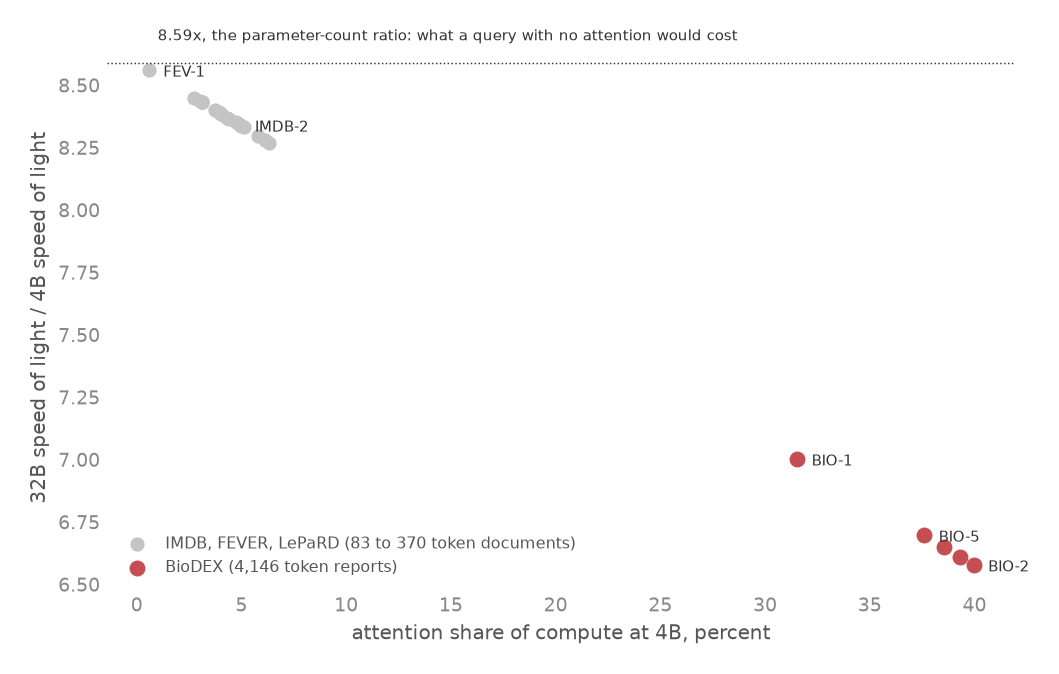
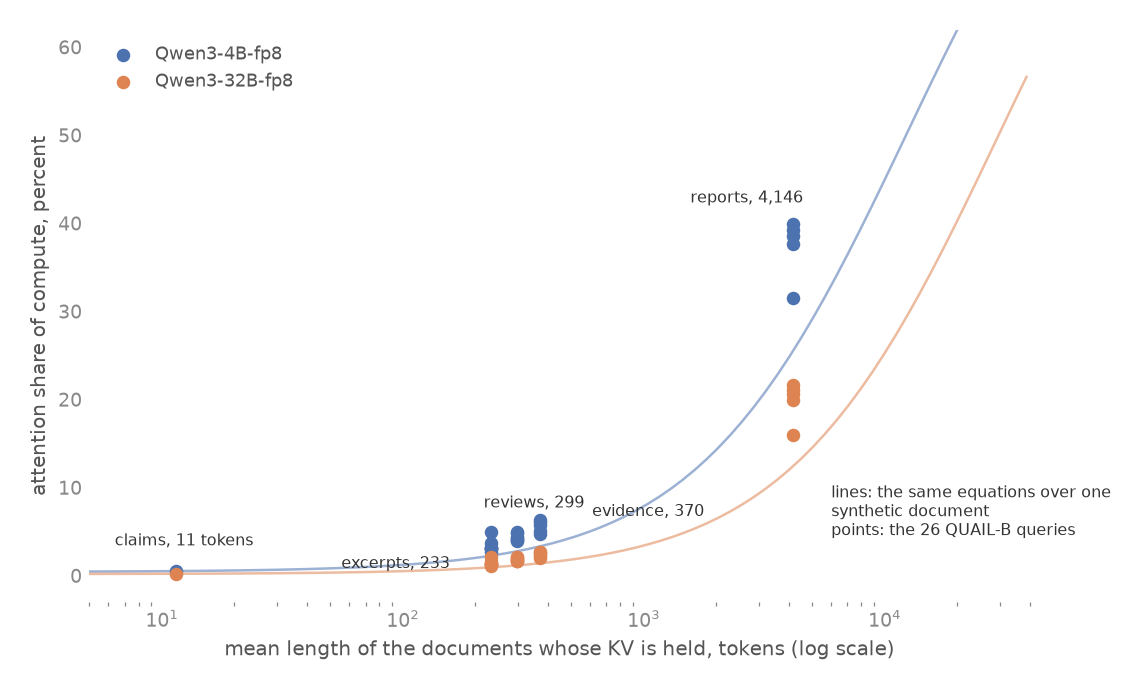
Replot the attention figure in primary units, over a derived curve
Both axes are now quantities the reader already has: mean length of
the documents whose KV is held, against attention's share of
compute. The old y axis was a ratio of two speed-of-light numbers,
and 8.59 appeared on the plot with no derivation behind it. Both are
gone; the 8.59x and 3.56x scaling factors are stated in the report
text where they can be explained.

The lines are the same equations applied to one synthetic document
of varying length, so the relation is drawn from the model rather
than fitted to five corpus means, and the 26 queries scatter around
it. Fixes a wrong annotation: passage_text is never the held side,
since LePaRD always anchors on excerpts.

Claude-Session: https://claude.ai/code/session_01QTPQAmNeew6H2VMfLurGdt

diff --git a/reports/make_sol_quailb_plots.py b/reports/make_sol_quailb_plots.py
@@ -14,14 +14,15 @@ from pathlib import Path
 import matplotlib.pyplot as plt
 
 sys.path.insert(0, str(Path(__file__).parent))
-from plot_colors import BLUE, DARK, GRAY, ORANGE, RED  # noqa
+from plot_colors import BLUE, DARK, ORANGE  # noqa
 
 ROOT = Path(__file__).resolve().parents[1]
 OUT = Path(__file__).parent / "plots"
 plt.style.use(Path(__file__).parent / "quail.mplstyle")
 
 W = Path(sys.argv[1])
-Q = json.loads((W / "sol_quailb_sf0.1.json").read_text())["queries"]
+D = json.loads((W / "sol_quailb_sf0.1.json").read_text())
+Q = D["queries"]
 ORDER = list(Q)
 
 
@@ -56,31 +57,45 @@ def plot_sol_per_query():
 
 
 def plot_attention_share():
-    """Why 32B is not a flat 8.59x: the attention term scales only
-    3.56x, so the queries it dominates scale by less."""
-    fig, ax = plt.subplots(figsize=(7, 4.4))
-    share = [100 * Q[q]["models"]["qwen3-4b-fp8"]["t_attention"]
-             / Q[q]["models"]["qwen3-4b-fp8"]["t_compute"] for q in ORDER]
-    ratio = [sol(q, "qwen3-32b-fp8") / sol(q, "qwen3-4b-fp8") for q in ORDER]
-    bio = [q.startswith("BIO") for q in ORDER]
-    ax.scatter([s for s, k in zip(share, bio) if not k],
-               [r for r, k in zip(ratio, bio) if not k],
-               s=34, color=GRAY, label="IMDB, FEVER, LePaRD (83 to 370 "
-                                       "token documents)")
-    ax.scatter([s for s, k in zip(share, bio) if k],
-               [r for r, k in zip(ratio, bio) if k],
-               s=44, color=RED, label="BioDEX (4,146 token reports)")
-    for q, s, r in zip(ORDER, share, ratio):
-        if q in ("BIO-1", "BIO-2", "BIO-5", "IMDB-2", "FEV-1"):
-            ax.annotate(q, (s, r), textcoords="offset points",
-                        xytext=(7, -3), fontsize=7, color=DARK)
-    ax.set_xlabel("attention share of compute at 4B, percent")
-    ax.set_ylabel("32B speed of light / 4B speed of light")
-    ax.axhline(8.59, color=DARK, lw=0.7, ls=":")
-    ax.text(1, 8.68, "8.59x, the parameter-count ratio: what a query "
-                     "with no attention would cost",
-            fontsize=7, color=DARK)
-    ax.legend(frameon=False, loc="lower left", fontsize=7.5)
+    """Where the time goes, against the length of the documents whose
+    KV is held. Attention pairs are quadratic in that length, so the
+    longer the held document, the more of the compute is attention.
+
+    The curves are the same equations applied to a synthetic single
+    document, so they are drawn from the model rather than fitted to
+    the 26 points. The points sit off the curve where a query's join
+    streams extra tokens past the held documents."""
+    fig, ax = plt.subplots(figsize=(7.6, 4.5))
+    curve = D["attention_share_curve"]
+    cx = curve["document_tokens"]
+    for model, colour, label in (("qwen3-4b-fp8", BLUE, "Qwen3-4B-fp8"),
+                                 ("qwen3-32b-fp8", ORANGE,
+                                  "Qwen3-32B-fp8")):
+        ax.plot(cx, curve["attention_share"][model], color=colour,
+                lw=1.2, alpha=0.55)
+        ax.scatter([Q[q]["held_mean_doc_tokens"] for q in ORDER],
+                   [100 * Q[q]["models"][model]["t_attention"]
+                    / Q[q]["models"][model]["t_compute"] for q in ORDER],
+                   s=30, color=colour, label=label, zorder=3)
+    for corpus, xt, yt, dx, dy in (
+            ("claims, 11 tokens", 11.4, 0.6, 4, 12),
+            ("excerpts, 233", 233.1, 3.7, -46, -12),
+            ("reviews, 299", 298.8, 4.9, 8, 12),
+            ("evidence, 370", 370.2, 6.3, 52, 2),
+            ("reports, 4,146", 4146.0, 40.0, -22, 10)):
+        ax.annotate(corpus, (xt, yt), textcoords="offset points",
+                    xytext=(dx, dy), fontsize=7.5, color=DARK,
+                    ha="center")
+    ax.set_xscale("log")
+    ax.set_xlim(5, 40_000)
+    ax.set_ylim(-3, 62)
+    ax.set_xlabel("mean length of the documents whose KV is held, "
+                  "tokens (log scale)")
+    ax.set_ylabel("attention share of compute, percent")
+    ax.legend(frameon=False, loc="upper left", fontsize=8.5)
+    ax.text(6000, 4, "lines: the same equations over one\n"
+                     "synthetic document\npoints: the 26 QUAIL-B queries",
+            fontsize=7.5, color=DARK, va="bottom")
     fig.tight_layout()
     fig.savefig(OUT / "sol_quailb_attention_share.png", dpi=150)
 

diff --git a/reports/make_sol_quailb.py b/reports/make_sol_quailb.py
@@ -537,10 +537,20 @@ for qid, rec in queries.items():
         "tuples": (len(live) * len(after(doc_lengths(rec["partner_column"]),
                                          rec["partner_filters"]))
                    if "join" in rec else 0),
+        "document_column": rec["document_column"],
+        "partner_column": rec.get("partner_column"),
         "anchor": anchor, "anchor_tokens_both_ways": both,
+        # mean length of the documents whose KV is held: the context
+        # every question and every tuple attends over, so the thing
+        # that decides how much of the compute is attention
+        "held_column": (rec["document_column"] if anchor != "right"
+                        else rec["partner_column"]),
         "tokens": work.tokens, "pairs": work.pairs,
         "kv_written": work.kv_written, "kv_read": work.kv_read,
         "models": {}}
+    held = rows[qid]["held_column"]
+    rows[qid]["held_mean_doc_tokens"] = (
+        sum(lengths[held].values()) / len(lengths[held]))
     for model in MODELS:
         s = seconds(work, model, H100_SXM, CHUNK[model.name])
         rows[qid]["models"][model.name] = {
@@ -548,6 +558,23 @@ for qid, rec in queries.items():
             "t_dense": s.dense, "t_attention": s.attention,
             "t_compute": s.compute, "t_memory": s.memory,
             "sol_s": s.sol, "bound_by": s.bound_by}
+
+# The same arithmetic over a synthetic document, so the curve the 26
+# queries scatter around is drawn from the equations rather than
+# fitted to the points: one filter, one document of length d, a
+# 50-token question. The share does not depend on how many documents
+# there are, only on how long each one is.
+curve = {"document_tokens": [], "attention_share": {m.name: []
+                                                    for m in MODELS}}
+d = 4.0
+while d <= 40_000:
+    w = scan(PRE + d, 50)
+    curve["document_tokens"].append(round(d, 1))
+    for model in MODELS:
+        sec = seconds(w, model, H100_SXM, CHUNK[model.name])
+        curve["attention_share"][model.name].append(
+            round(100 * sec.attention / sec.compute, 4))
+    d *= 1.12
 
 hdr = (f"{'query':7} {'tokens':>11} {'pairs':>15} {'tuples':>8} "
        f"{'anchor':>7}  {'4B SoL':>9} {'att%':>5}  {'32B SoL':>9} "
@@ -576,6 +603,7 @@ json.dump({
                   "quail-results, qwen3-32b-fp8 answering",
         "tokenizer": "Qwen/Qwen3-4B-FP8, shared by every Qwen3 model"},
     "chunk_tokens": CHUNK,
+    "attention_share_curve": curve,
     "measured_inputs": {
         "preamble_tokens": PRE,
         "document_lengths": {

diff --git a/reports/2026-08-25-sol-quailb.md b/reports/2026-08-25-sol-quailb.md
@@ -160,21 +160,29 @@ reads. BioDEX is the extreme, because a 4,146-token report copied
 into each of 122,800 tuples is 46 times the cost of holding 200 of
 them.
 
-## Why 32B is not a flat 8.6x
+## Document length decides the mix, and the mix decides the model gap
 
 Figure: plots/sol_quailb_attention_share.png
 
-The dense term scales with parameters - 31,206,298,624 over
-3,633,511,936, or 8.59x. The attention term scales with
-`4 n_q d_head L` - 2,097,152 at 32B against 589,824 at 4B, or 3.56x.
-Both attention terms price against the same bf16 peak.
+The two compute terms grow differently. `T_dense` is linear in
+tokens; `T_attention` is quadratic in the length of the document
+whose KV is held, because a sequence of length `m` scores `T(m)`
+pairs. So the longer the held document, the larger attention's share
+of the work. The curves in the figure are that relation, drawn from
+the equations over a synthetic single document; the 26 queries sit
+on and around them.
 
-So each query's 32B multiplier sits between 3.56 and 8.59 according
-to how much of its compute is attention. IMDB, FEVER and LePaRD are
-0.6-6.3% attention and land at 8.3-8.6. BioDEX is 32-40% attention
-and lands at 6.6-7.0. The cause is document length: BioDEX reports
-average 4,146 tokens against IMDB's 299, and pairs are quadratic in
-length.
+The two terms also scale differently with model size. `T_dense`
+scales with the parameter count, 31,206,298,624 over 3,633,511,936
+or 8.59x. `T_attention` scales with `4 n_q d_head L`, 2,097,152
+against 589,824 or 3.56x, and both models price it against the same
+bf16 peak.
+
+Put together: a query's cost multiplier from 4B to 32B lies between
+3.56 and 8.59, at whatever its mix is. Claims, excerpts, reviews and
+evidence are 0.6 to 6.3% attention and multiply by 8.3 to 8.6.
+BioDEX reports, at 4,146 tokens, are 32 to 40% attention and
+multiply by 6.6 to 7.0.
 
 Long documents therefore make the big model relatively cheaper, not
 dearer.
